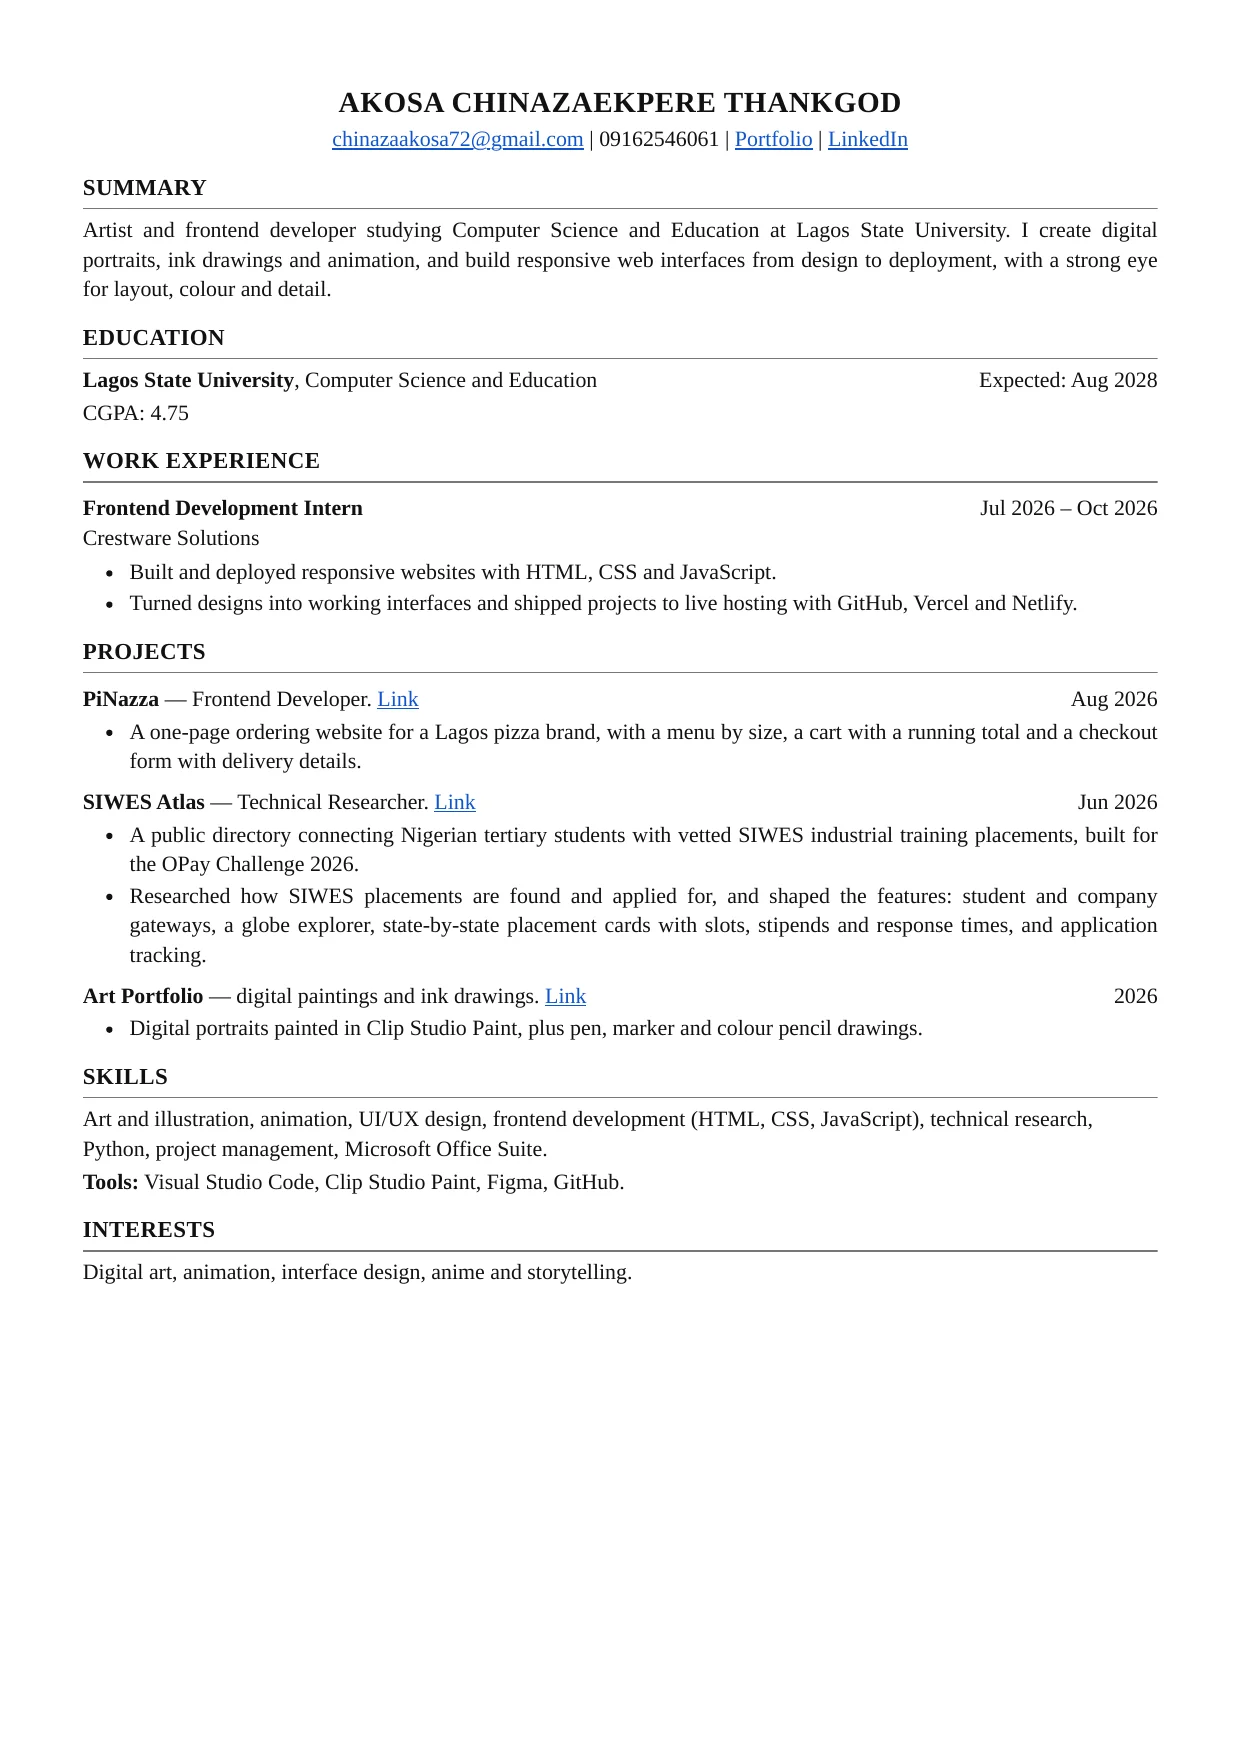
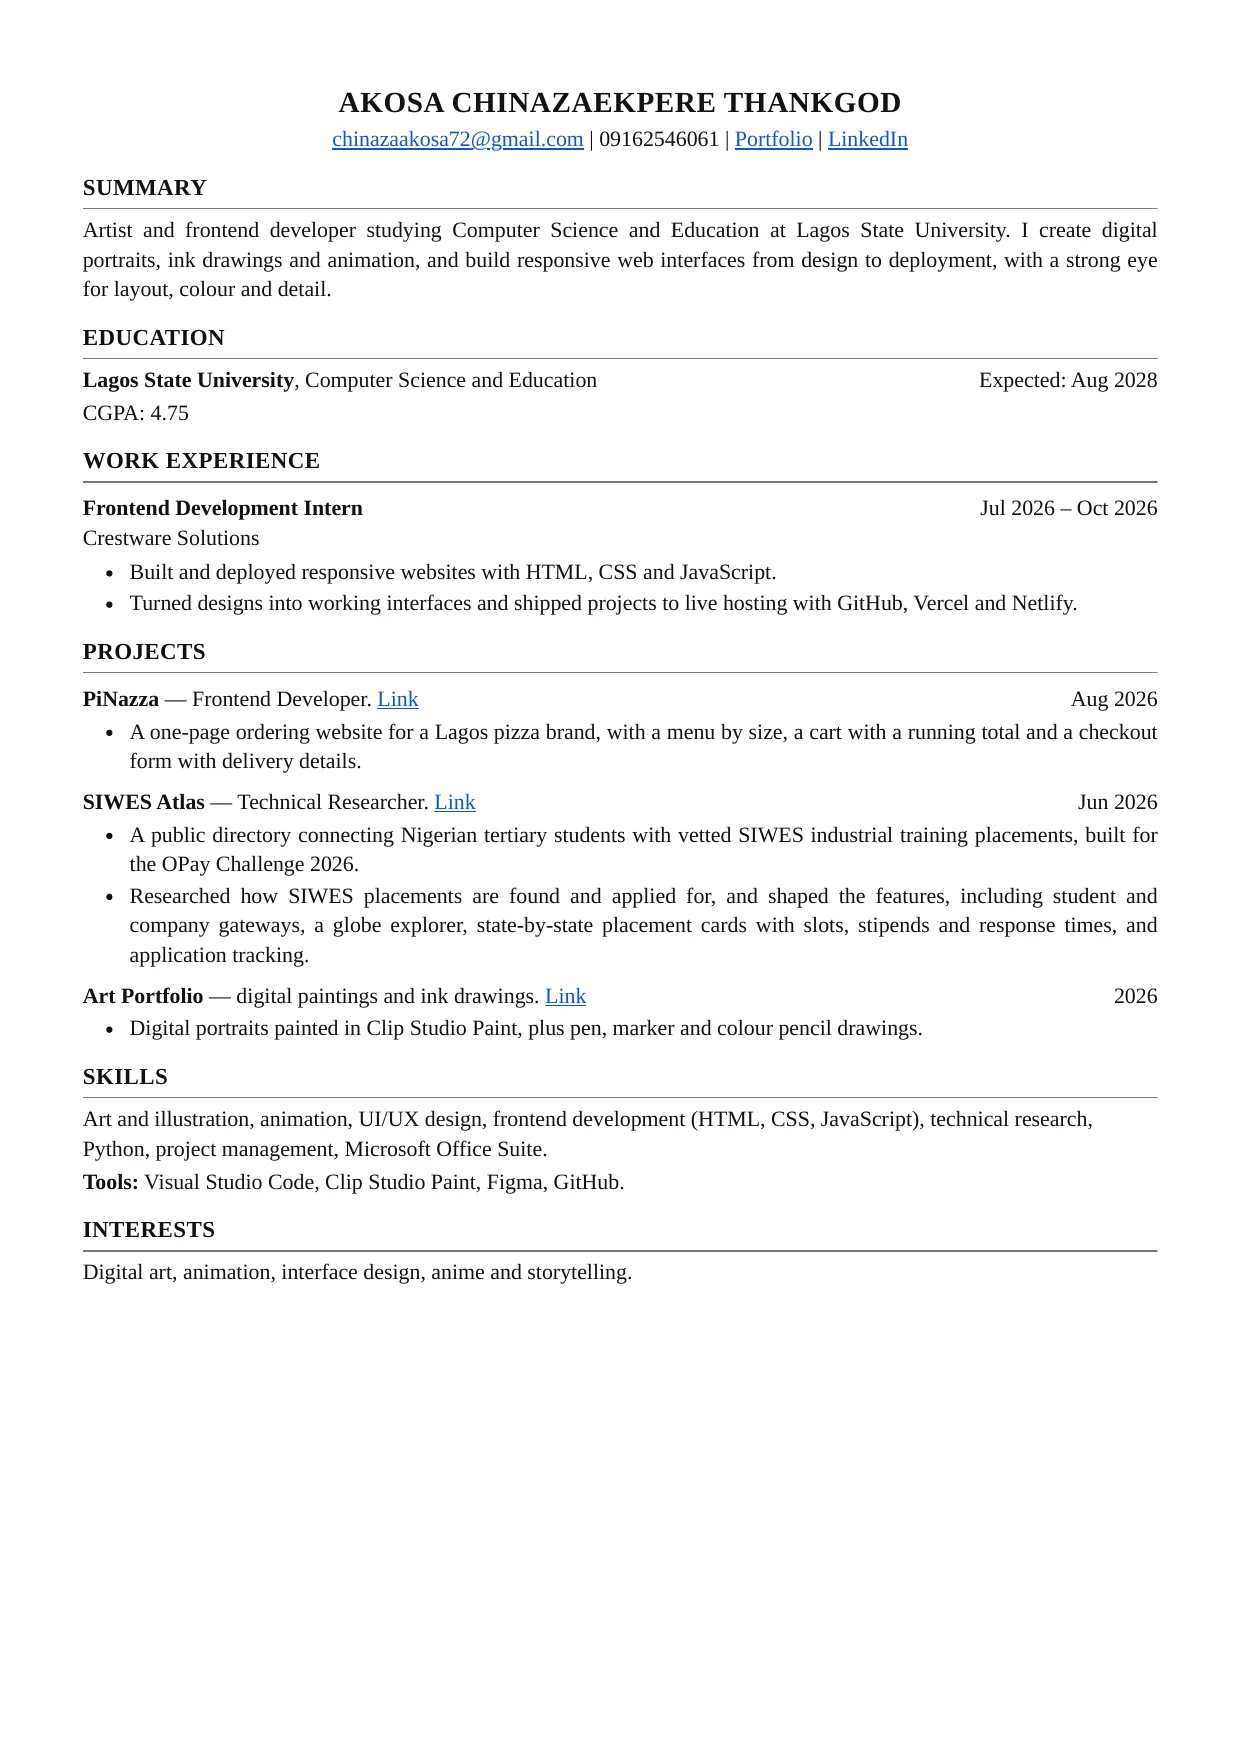
Rework colon-led sentences into plainer phrasing
Claude-Session: https://claude.ai/code/session_01FznZV5MkKYJcrxBuXv8rFi

Changed region(s): [[0.0919, 0.4926, 0.9194, 0.5542]]

diff --git a/index.html b/index.html
@@ -392,7 +392,7 @@ section.blk{padding:72px 0 8px}
     { id: 'pinazza', name: 'PiNazza', role: 'Frontend Developer', date: 'August 2026', url: 'https://pi-nazza.netlify.app/',
       art: { bg: '#c0392b', win: '#fff8ef', fg: '#2a1810', acc: '#e67e22', k: 'Lagos, Nigeria', h: 'Mouth watering circular breads', s: 'Freshly made pizza, straight from the oven.', b: 'Order now', hs: 30 },
       overview: ['PiNazza is a one-page website for a pizza business in Lagos. It shows off the popular pizzas, takes orders by size and runs customers through to payment, all without leaving the page.'],
-      challenge: ['Make a small food brand feel appetising online and keep ordering simple: pick a pizza, choose a size, pay, done.'],
+      challenge: ['Make a small food brand feel appetising online and keep ordering simple. Pick a pizza, choose a size, pay, done.'],
       solution: { text: [['A hero with an "order now" button that jumps straight to the menu.', 'Popular pizzas, then a menu with small, medium and large sizes.', 'A cart with a running total and a payment form with delivery details.', 'A "today\'s special" offer, what sets the brand apart, an about section and contact details.']],
         stills: [{ url: 'https://pi-nazza.netlify.app/', y: 0, cap: 'Hero' }, { url: 'https://pi-nazza.netlify.app/', y: 900, cap: 'Popular pizzas' }, { url: 'https://pi-nazza.netlify.app/', y: 1800, cap: 'Menu & cart' }, { url: 'https://pi-nazza.netlify.app/', y: 2700, cap: 'Today\'s special' }] } },
     { id: 'siwes-atlas', name: 'SIWES Atlas', role: 'Technical Researcher', date: 'June 2026', url: 'https://siwes-atlas.vercel.app/',

diff --git a/docs/cover-letter-source.html b/docs/cover-letter-source.html
@@ -26,7 +26,7 @@ li{margin:2px 0}
 
 <p>Dear Hiring Manager,</p>
 
-<p>I started as an artist. Painting portraits taught me to notice light, colour and the small details that make something feel finished, and when I found frontend development I realised the same instincts apply to every screen people use. Today I do both: I draw, and I build interfaces that look the way they were meant to.</p>
+<p>I started as an artist. Painting portraits taught me to notice light, colour and the small details that make something feel finished, and when I found frontend development I realised the same instincts apply to every screen people use. Today I do both. I draw, and I build interfaces that look the way they were meant to.</p>
 
 <p>During my frontend development internship at Crestware Solutions, I built and deployed responsive websites and learnt to take a design all the way to a live product. I built PiNazza, an ordering website for a pizza brand with a menu, cart and checkout. As technical researcher on SIWES Atlas, an OPay Challenge 2026 entry that connects Nigerian students with vetted SIWES placements, I researched how students find and apply for placements and helped shape its gateways, explorer and application tracking.</p>
 

diff --git a/docs/cv-source.html b/docs/cv-source.html
@@ -51,7 +51,7 @@ a{color:#1155cc}
   <div class="row"><span><b>SIWES Atlas</b> — Technical Researcher. <a href="https://siwes-atlas.vercel.app">Link</a></span><span>Jun 2026</span></div>
   <ul>
     <li>A public directory connecting Nigerian tertiary students with vetted SIWES industrial training placements, built for the OPay Challenge 2026.</li>
-    <li>Researched how SIWES placements are found and applied for, and shaped the features: student and company gateways, a globe explorer, state-by-state placement cards with slots, stipends and response times, and application tracking.</li>
+    <li>Researched how SIWES placements are found and applied for, and shaped the features, including student and company gateways, a globe explorer, state-by-state placement cards with slots, stipends and response times, and application tracking.</li>
   </ul>
 </div>
 <div class="role">
